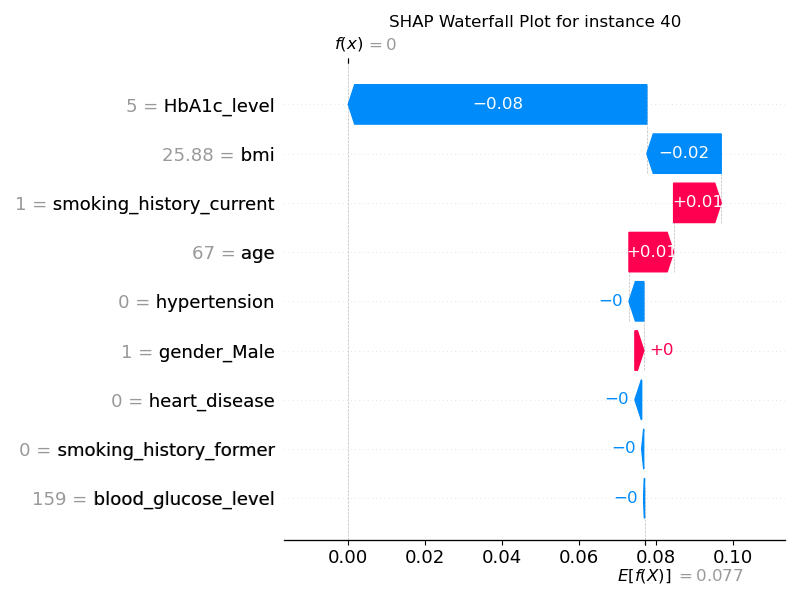
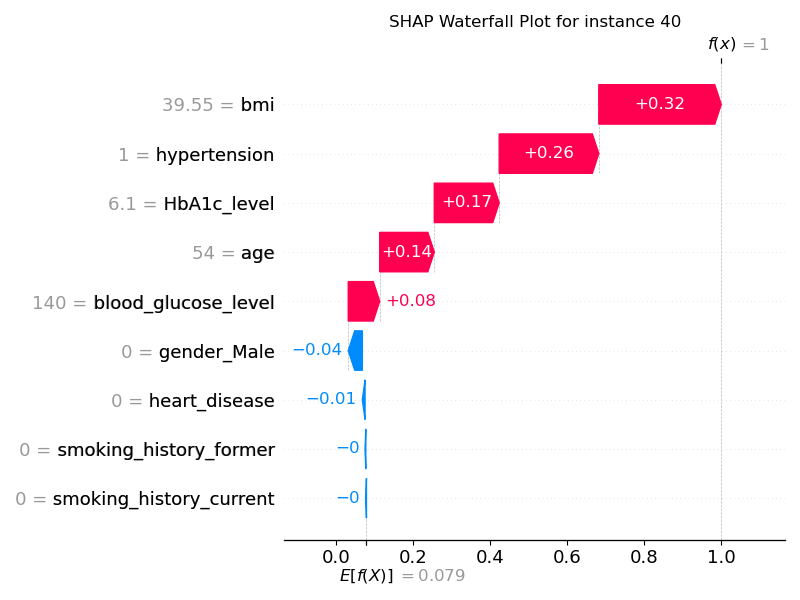
plot updates

diff --git a/main.py b/main.py
@@ -104,9 +104,11 @@ plt.savefig('confmatrix_XGBC.png')
 plt.show()
 
 # Compute SHAP values and plot summary
-samples = 1000
+samples = 998
 X_shap = shap.sample(X_test, samples, random_state=random_state)
 mask = shap.maskers.Independent(X_train, max_samples=1000)
+
+X_shap = X_shap.append([X_test.iloc[2, :], X_test.iloc[39, :]])
 explainer = shap.KernelExplainer(model.predict, X_shap, masker=mask)
 
 shap_values = explainer.shap_values(X_shap)
@@ -140,14 +142,23 @@ plt.show()
 # Compute SHAP values and plot summary
 instance_no = 40
 
-shap.plots.waterfall(explanation[instance_no - 1], show=False)
+shap.plots.waterfall(explanation[-1], show=False)
+plt.title(f'SHAP Waterfall Plot for instance {instance_no}')
+plt.tight_layout()
+plt.savefig(f'wf_SHAP_{instance_no}.png')
+plt.show()
+
+# Compute SHAP values and plot summary
+instance_no = 3
+
+shap.plots.waterfall(explanation[-2], show=False)
 plt.title(f'SHAP Waterfall Plot for instance {instance_no}')
 plt.tight_layout()
 plt.savefig(f'wf_SHAP_{instance_no}.png')
 plt.show()
 
 # Multiple Instance Waterfall
-instances = 19
+instances = 18
 instance_nos = np.random.choice(range(1, samples + 1), instances, replace=False)
 for i in instance_nos:
     shap.plots.waterfall(explanation[i - 1], show=False)
